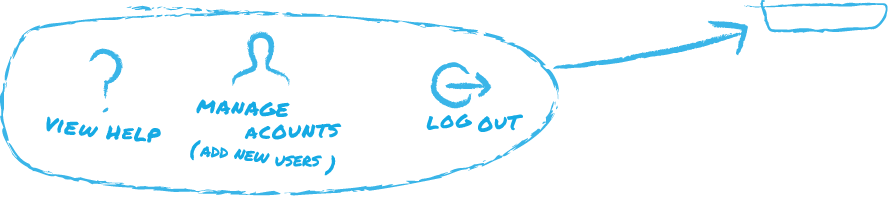
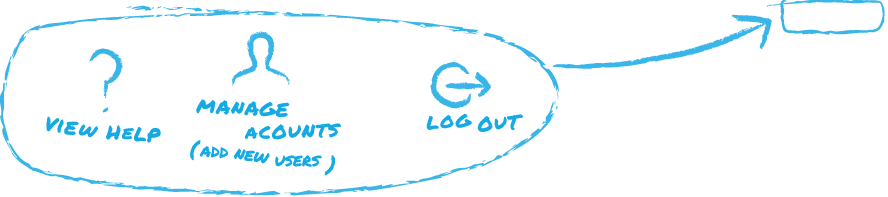
re-styled nav-help overlay.

diff --git a/views/sass/style.scss b/views/sass/style.scss
@@ -817,7 +817,7 @@ body {
   #help-nav{
     position: absolute;
     z-index: 110;
-    top: 0;
+    top: 3px;
     right: 0;
     height: 197px;
     width: 888px;
